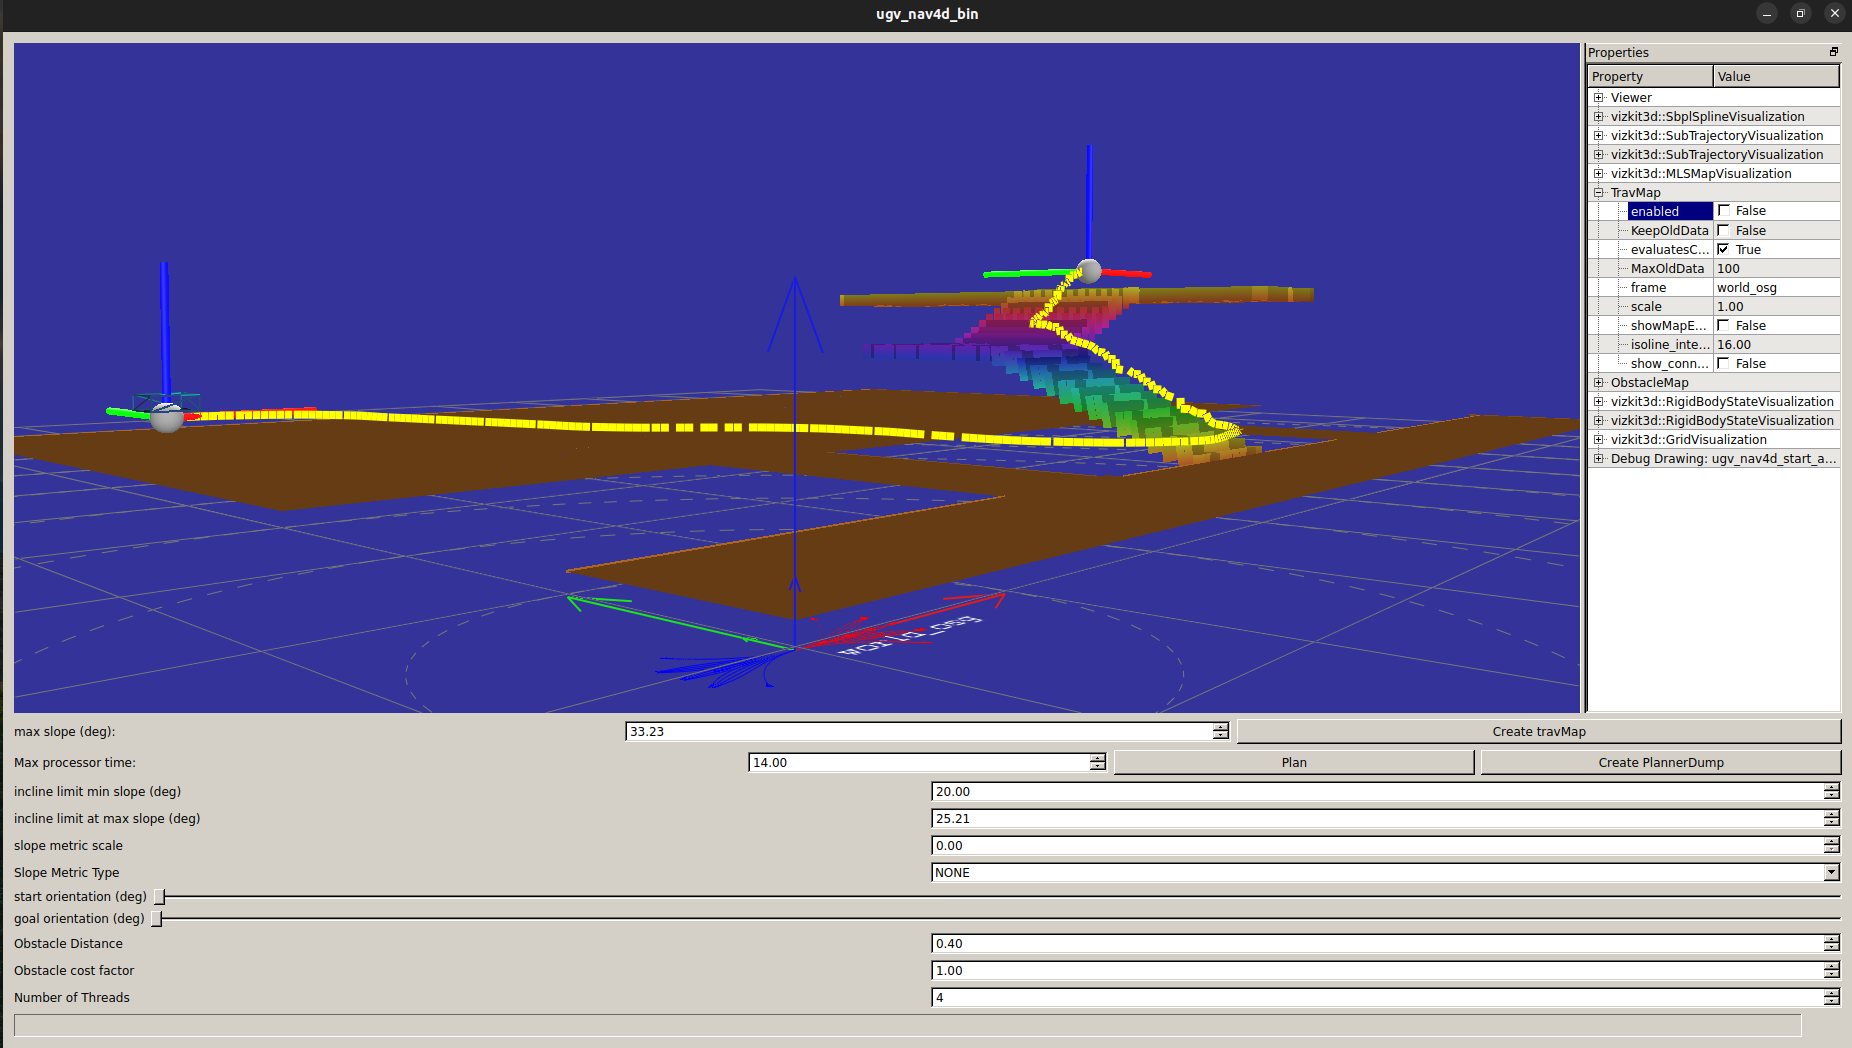
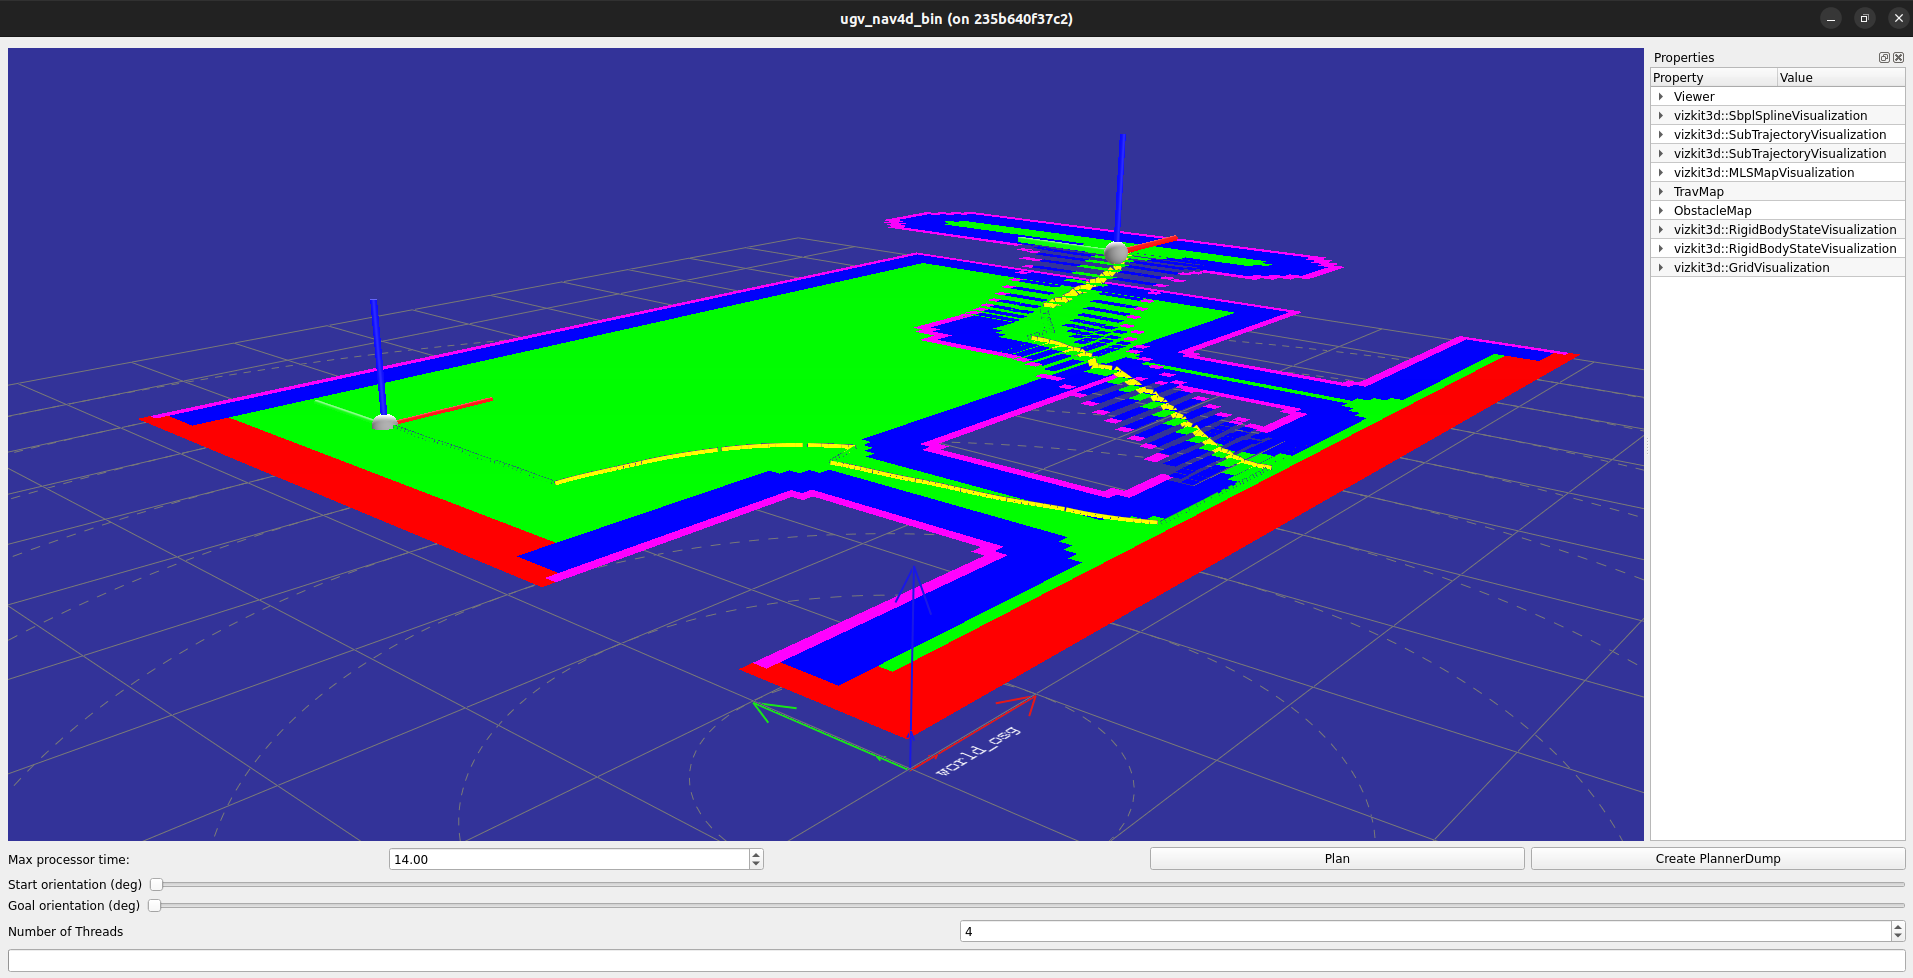
Update paper and enable add pimtivies in the debug gui

diff --git a/src/gui/PlannerGui.cpp b/src/gui/PlannerGui.cpp
@@ -292,8 +292,8 @@ void PlannerGui::setupPlanner(int argc, char** argv)
     splineConfig.numEndAngles = 21;
     splineConfig.destinationCircleRadius = 10;
     splineConfig.cellSkipFactor = 3.0;
-    splineConfig.generatePointTurnMotions = false;
-    splineConfig.generateLateralMotions = false;
+    splineConfig.generatePointTurnMotions = true;
+    splineConfig.generateLateralMotions = true;
     splineConfig.generateBackwardMotions = true;
     splineConfig.generateForwardMotions = true;
     splineConfig.splineOrder = 4;

diff --git a/paper/paper.md b/paper/paper.md
@@ -23,150 +23,49 @@ bibliography: paper.bib
 ---
 
 # Summary
-Navigation of autonomous mobile robots is a complex problem which comprises of multiple software components, each performing a specific task, which when combined form the navigation software architecture. Ugv_nav4d can be used to navigate complex indoor and outdoor environments. It provides a traversable, motion constraint compliant, and collision free trajectory. It is highly customizable and can be used for any type of terrestrial robot.
 
-To find a traversable trajectory, ugv_nav4d internally maintains a 3D Traversability Map (TraversabilityMap3d) of the environment. The TraversabilityMap3d [@slammaps] is generated based on a multi-layered surface map (MLS [@mlsmaps], [@slammaps]), which enables ugv_nav4d to plan trajectories in multi-surface environments. The trajectory is composed by careful selection and piecing together of motion primitives from a pool of primitives. The primitives are generated based on the specific mechnical features of the robot. As a result, the planned trajectory always fits well with the motion capabilites of the robot. 
-
-In short, ugv_nav4d
-
-- can plan continuous, smooth, and feasible paths in complex indoor and outdoor environments.
-- can plan in multi-surface environments, e.g. natural cave system, multi-storey buildings.
-- provides a complete trajectory for the planned path which is ready for execution.
-- provides a graphical user interface (GUI) for introspection and debugging.
+The ugv_nav4d is a global path planner designed for terrestrial robots to navigate complex indoor and outdoor environments. To achieve this, ugv_nav4d uses a traversability map (TraversabilityMap3d) based on a multi-layered surface map (MLSMap) [@mlsmaps], [@slammaps], enabling planning in multi-surface environments. The path is built by selecting motion primitives tailored to the robot's mechanical features, ensuring compatibility with its motion capabilities.
 
 ![Planned trajectory in a multi-storey environment.](figures/parking_deck.png){width="300pt"}
 
 # Statement of need
+Accurate ground surface representation is crucial for ground-based robots in complex terrains. The ROS Navigation Stack (nav2) [@ros2], which uses voxel maps for 3D navigation, often loses detail and accuracy, especially in multi-storey environments, due to its discrete voxelization and separate costmaps for each floor.
 
-The ROS navigation stack [@ros2] is undoubtedly the most used open-source robotics framework. This claim can be backed by its widespread usage in research and industry. Navigation2 (nav2) [@macenski2020nav2] is the newest navigation system which is based on the legacy of ROS Navigation. In this paper, we propose a new, fully open-source robot navigation library called ugv_nav4d. Ugv_nav4d presents significant improvements over nav2, particularly in environmental representation and navigation in complex, uneven terrains and multistorey environments. By utilizing Multi-Layered Surface Maps [@mlsmaps] and a 3D Traversability Map [@slammaps], ugv_nav4d offers a more detailed and accurate navigation solution for ground vehicles. These capabilities are essential for operations in challenging terrains and address critical needs within the robotics community. The ongoing development of a ROS2 wrapper for ugv_nav4d aims to facilitate its adoption and integration within the ROS2 ecosystem, providing substantial benefits to the community and enhancing the capabilities of ground vehicle navigation.
+We propose ugv_nav4d, a path planner that enhances environmental representation with Multi-Layered Surface Maps (MLS) [@mlsmaps] and a 3D Traversability Map [@slammaps]. Ugv_nav4d avoids the "stepping" effect of voxel maps by using a continuous grid and detailed vertical information, providing smoother and more accurate terrain modeling.
 
-### Environment Representation and Mapping Techniques
-Nav2 primarily supports 2D occupancy grid maps, where the environment is discretized into a grid of cells marked as occupied or free. This method is suitable for flat, two-dimensional environments but is inadequate for complex and uneven terrains. For 3D mapping, nav2 utilizes voxel maps, which discretize the environment along the x, y, and z axes. While voxel maps are effective for aerial and underwater navigation due to their capacity to represent non-ground obstacles, they introduce steps on sloped surfaces, which can hinder smooth ground vehicle navigation.
-
-In contrast, ugv_nav4d employs Multi-Layered Surface Maps (MLS), representing the environment with a grid in the x and y coordinates while avoiding discretization in the z axis. Each cell contains a list of blocks defined by start and stop heights, with the top of these blocks capable of having a slope value. This method ensures a smooth surface representation, making it highly suitable for navigating uneven ground. The MLS approach eliminates the stepping effect seen in voxel maps, providing a continuous and detailed representation of ground surfaces, including slopes and varying heights.
-
-### Multistorey Navigation Capabilities
-In multistorey environments, nav2 would require separate costmaps for each floor, which complicates the navigation process. In contrast, the planner in ugv_nav4d maintains a single 3D Traversability Map, enabling efficient long-distance planning in environments with distinct elevation levels, such as multistorey buildings or terrains with significant height variations. This approach simplifies navigation without the need for multiple costmaps.
-
-### Traversability Analysis
-Ugv_nav4d includes detailed ground surface information, such as slope and plane models, in each cell of the traversability map. This can be seen as an advanced alternative to the combination of 3D costmaps and gradient maps in nav2, providing higher accuracy and efficiency.
-
-### Suitability for Different Applications
-The voxel maps used by nav2 are more suitable for applications where non-ground obstacles are significant, such as in aerial or underwater navigation. Conversely, the MLS approach in ugv_nav4d, with its smooth surface representation and detailed ground information, is superior for ground vehicle navigation in uneven terrain. This additional accuracy is crucial for effectively handling complex surfaces.
-
-### Visualization Differences
-From a user perspective, the visualization of MLS and voxel maps differs significantly. Voxel maps create a blocky representation of the environment, where objects and surfaces are represented by stacked cubes. This can lead to a staircase effect on sloped surfaces, which may not accurately reflect the true nature of the terrain. This visualization is more suitable for scenarios where the focus is on the presence and absence of obstacles, such as in aerial or underwater navigation. On the other hand, MLS maps provide a smoother and more continuous representation of the environment. The lack of discretization in the z-axis allows for a more accurate depiction of slopes and uneven ground surfaces. This results in a more intuitive and realistic visualization for ground vehicle navigation, where the detailed surface information, such as slope and plane models, is critical for planning and decision-making. The smoother surface representation of MLS maps enhances the user’s ability to understand and interpret the terrain, leading to better navigation outcomes.
+Unlike nav2, ugv_nav4d simplifies planning with a single TraversabilityMap3D, which contains detailed ground surface data, offering a superior alternative to nav2’s 3D costmaps. For users, MLS maps provide a smoother, more realistic view of terrain compared to the blocky voxel maps, enhancing navigation and decision-making in complex environments.
  
 # Software Components 
-The core software components are 
+The core software components of the planner are 
 
 - EnvironmentXYZTheta
 - PathPlanner
 - PreComputedMotions
 
 ### EnvironmentXYZTheta 
-The core of ugv_nav4d is based on SBPL [@sbpl]. The environment in SBPL internally uses states and associated transition costs. ugv_nav4d uses the EnvironmentXYZTheta because this environment implements all interfaces needed by SBPL to enable ARA* based planning. A state in this environment consists of the position on the map (x,y,z) and the orientation of the robot (yaw). The EnvironmentXYZTheta uses TraversabilityGenerator3d [@travgen3d] to generate a TraversabilityMap3d from a MLSMap. The TraversabilityGenerator3d classifies the MLSMap patches into traversable, non-traversable, and unknown terrain. The nodes in TraversabilityMap3d contains meta data of the ground surface (e.g., slope of the patch, supporting plane, etc.). 
+The core of ugv_nav4d is based on SBPL (Search-Based Planning Library) [@sbpl]. The EnvironmentXYZTheta implements all interfaces needed by SBPL to enable ARA* based planning. The environment in SBPL is a state space which connects states with associated transition costs. A state is defined by the position (x,y,z) and orientation (yaw) of the robot. The EnvironmentXYZTheta uses a TraversabilityGenerator3d [@travgen3d] to generate a TraversabilityMap3d from a MLSMap, which classifies the MLSMap patches into traversable, non-traversable, and unknown terrain and stores meta data of the ground surface (e.g., slope of the patch, supporting plane, etc.). 
 
-![TraversabilityMap3d generated by ugv_nav4d.](figures/trav_map.png){width="200pt" height="300pt"}
-
-`Traversable [Green]`: The robot can stand (with its center) on this patch in at least one orientation without hitting an obstacle. 
-
-`Obstacle [Red]`: There robot will be in collision if it stands (with its center) on this patch. 
-
-`Frontier [Blue]`: Borders to the end of the map.  
-
-`Unknown [Purple]`: This is a virtual patch that serves as boundary for algorithms. This patch does not exist in the MLSMap. Patches also become unknown if there is not enough information in the MLSMap to be sure that a patch exists in this location.
-
-
-![The Moon Crater in the Space Hall at the RIC, DFKI [@roboticsElab]\label{fig:crater}.](figures/space_hall_crater.png){width="200pt" height="300pt"}
-
-The EnvironmentXYZTheta is given the MLSMap of the Space Hall Crater shown in Figure 2 and the resulting TraversabilityMap3d generated by the TraversabilityGenerator3d is shown in Figure 3.
-
-![The TraversabilityMap3d of the Moon Crater in \autoref{fig:crater}.](figures/trav_map_space_hall.png){width="200pt" height="300pt"}
+![The Moon Crater and its TraversabilityMap3d in the Space Hall at the RIC, DFKI [@roboticsElab]\label{fig:crater}.](figures/trav_map_and_space_hall.png){width="400" height="300pt"}
 
 ### PathPlanner
-The SBPL provided ARA* planner uses a heuristic during the exploration for successor states. The heuristic is the time it would take the robot to follow the shortest path in between two states on the TraversabilityMap3d. Robot and terrain specific information used in the planning phase is: 
-
-- the robot dimensions and orientations are parameters 
-- collision checks with obstacles
-- steepness of the terrain 
-- motion primitives 
-
-The planner generates a complete trajectory for the planned path and the trajectory can be executed by a trajectory follower [@trajectoryfollower].
+The search for the shortest path in ugv_nav4d is based on the SBPL-provided ARA* planner. It builds a state space of future robot states and uses a time heuristic to compute the shortest path on the TraversabilityMap3D. Robot and terrain-specific information, including robot dimensions and orientations, collision checks with obstacles, terrain steepness, and motion primitives are incorporated as additional costs in the search for the successive states. The planner generates a complete trajectory for the planned path, which can then be executed by a trajectory follower [@trajectoryfollower].
 
 ![The planned trajectory (yellow) using the robot [Hunter-SE](https://robotik.dfki-bremen.de/de/forschung/robotersysteme/hunterse) in the final demostration of the project [KIMMI-SF](https://robotik.dfki-bremen.de/de/forschung/projekte/kimmi-sf).](figures/motion_planning_hunter.png){width="200pt" height="300pt"}
 
 ### PreComputedMotions  
-Motion primitives are a set of pre-defined motions which are stored as spline trajectories. Each primitive is a feasible movement of the robot from a given starting pose (x,y,z,yaw). The planner uses primitives to find candidate successor states from the start state. It samples the spline and confirms if the path followed along the spline is traversable and collision free. 
-
-Upon motion generation, every motion is asigned a base cost.
-The basic cost is when the robot would follow that motion on a horizontal flat surface. Factors for steepness and other penalties might be factored later during planning on a case to case basis.
-
-Primitives are classified into four categories: 
-
-- Forward Motion Primitive 
-- Backward Motion Primitive 
-- Lateral Motion Primitive 
-- Point-Turn Motion Primitive
+Motion primitives are pre-defined movements stored as spline trajectories, representing feasible robot motions from a given pose (x, y, z, yaw). The planner uses these primitives to find successor states, ensuring paths are traversable and collision-free. Each motion has a base cost for flat surfaces, with additional penalties for factors like steepness. Primitives fall into four categories: Forward, Backward, Lateral, and Point-Turn. These primitives can be tailored for different robot types: Ackermann drive robots use forward and backward primitives, differential drive robots can use point-turn primitives, and omni-directional robots utilize all four types. Point-turn primitives are unique as they don't use splines, unlike the others generated by the SbplSplineMotionPrimitives library [@sbplsplineprimitives].
 
 ![A pool of forward motion primitives by the PreComputedMotions module.](figures/motion_primitives.png){width="200pt" height="300pt"}
 
-The user can adapt the planner for diverse types of ground mobile robots. A typical robot with an Ackermann drive will use forward and backward motion primitives. A differential drive robot can realize point-turn motions in addition to forward and backward motions. An omni-directional robot can realize all four motion types. 
-
-All four primitive motion types are considered as valid motions. It needs to be mentioned that the point-turn primitives are a special case because they do not use a spline. On the contrary, forward, backward, and lateral motion primitives are splines. The basic shapes of the motion primitives are generated by the SbplSplineMotionPrimitives library [@sbplsplineprimitives].  
-
-# Debugging and Unit Tests
+# Debugging
 
 ### PlannerGui
-A GUI is provided for introspection into ugv_nav4d for debugging and testing. Please see the planner parameter details in the ugv_nav4d repository. The PlannerGui is the main testing gui. It is designed to experiment with differen planner parameters on a static map. It can load point clouds from ply or serialized mls maps. A left click sets the start location, a right click sets the end location.
+A GUI for ugv_nav4d allows debugging and testing by experimenting with planner parameters on a static map. The PlannerGui can load point clouds from ply or serialized MLS maps, using left and right clicks to set start and end locations. Errors can be logged to a file and ugv_nav4d_replay can be used to analyze the state and execute planning in a controlled environment.
 
 ![GUI for debugging and testing of ugv_nav4d.](figures/debug_gui.png){width="200pt" height="300pt"}
 
-The MLSMap for the GUI can be a .PLY file or a PlannerDump. We provide PLY files for basic multi-surface test environments in the test_data folder of the ugv_nav4d repository. 
-
-![Visualization of a MLSMap generated from the test_area2.ply\label{fig:mlsmap}.](figures/test_environment/multi_surface_test_mls_map.png){width="200pt" height="300pt"}
-
-![Visualization of the TraversabilityMap3d generated from the MLSMap in \autoref{fig:mlsmap}\label{fig:travmap}.](figures/test_environment/multi_surface_trav_map.png){width="200pt" height="300pt"}
-
-![Visualization of the planned trajectory based on the TraversabilityMap3d shown in \autoref{fig:travmap}.](figures/test_environment/multi_surface_planned_trajectory.png){width="200pt" height="300pt"}
-
-In case of error the Planner dumps its state to a file (this can be enabled using the dumpOnError parameter). The state can be loaded and analyzed using the ugv_nav4d_replay binary. This binary loads the state and executes the planning in a controlled environment. This can be used to debug the planner.
-
-### Unit Tests
-The unit tests for the planner are developed using GTest [@googletest]. The following tests are implemented:
-
-- Different resolutions for motion primitives and TraversabilityMap3d 
-- Invalid goal pose (x,y,z,yaw)
-- Invalid start pose of robot (x,y,z,yaw)
-- Planning success
-
 # Field Tests
-ugv_nav4d has been used extensively in research projects for almost a decade. The planner has performed well in highly unstructured environments e.g. natural cave systems, outdoor rough terrains and in structured environments.
-
-### Projects
-Here we have listed some projects in which ugv_nav4d was used for autonomous navigation.
-
-- [Entern](https://robotik.dfki-bremen.de/de/forschung/projekte/entern)
-- [ANT](https://robotik.dfki-bremen.de/de/forschung/projekte/ant)
-- [VIPE](https://robotik.dfki-bremen.de/de/forschung/projekte/vipe)
-- [KIMMI-SF](https://robotik.dfki-bremen.de/de/forschung/projekte/kimmi-sf)
-- [HiSE](https://robotik.dfki-bremen.de/de/forschung/projekte/hise)
-- [PerSim](https://robotik.dfki-bremen.de/de/forschung/projekte/persim)
-- [CoRobX](https://robotik.dfki-bremen.de/de/forschung/projekte/corob-x)
-
-### Robots
-ugv_nav4d is a very versatile planner and can be used for any type of a terrestrial robot. Below we have listed some of the many robots which use ugv_nav4d for autonomous navigation.
-
-- [Artemis](https://robotik.dfki-bremen.de/de/forschung/robotersysteme/artemis)
-- [Coyote-III](https://robotik.dfki-bremen.de/de/forschung/robotersysteme/coyote-iii)
-- [Crex](https://robotik.dfki-bremen.de/de/forschung/robotersysteme/crex)
-- [Charlie](https://robotik.dfki-bremen.de/de/forschung/robotersysteme/charlie)
-- [Hunter-SE](https://robotik.dfki-bremen.de/de/forschung/robotersysteme/hunterse)
-- [SherpaTT](https://robotik.dfki-bremen.de/de/forschung/robotersysteme/sherpatt)
-- [Asguard-IV](https://robotik.dfki-bremen.de/de/forschung/robotersysteme/asguard-iv)
-
-# Limitations
-As explained earlier, ugv_nav4d maintains a Traversability Map based on the user-provided MLS. It is common practice to map only the static environment in the MLS. As a consequence, dynamic obstacles are not considered during the planning phase of ugv_nav4d. Therefore, ugv_nav4d is currently suitable for static environments. In principle, it is possible to generate an MLS and subsequently a Traversability Map for each point cloud sample. This would ensure that dynamic obstacles are visible in the Traversability Map and are considered in the planning phase. We are working on various approaches to make it capable of operating in dynamic environments.
+ugv_nav4d has been used extensively in research projects for almost a decade. It has been utilized for autonomous navigation in several projects, including [Entern](https://robotik.dfki-bremen.de/de/forschung/projekte/entern), [ANT](https://robotik.dfki-bremen.de/de/forschung/projekte/ant), [VIPE](https://robotik.dfki-bremen.de/de/forschung/projekte/vipe), [KIMMI-SF](https://robotik.dfki-bremen.de/de/forschung/projekte/kimmi-sf), [HiSE](https://robotik.dfki-bremen.de/de/forschung/projekte/hise), [PerSim](https://robotik.dfki-bremen.de/de/forschung/projekte/persim), and [CoRobX](https://robotik.dfki-bremen.de/de/forschung/projekte/corob-x). As a versatile planner, it has also been used for various terrestrial robots, such as [Artemis](https://robotik.dfki-bremen.de/de/forschung/robotersysteme/artemis), [Coyote-III](https://robotik.dfki-bremen.de/de/forschung/robotersysteme/coyote-iii), [Crex](https://robotik.dfki-bremen.de/de/forschung/robotersysteme/crex), [Charlie](https://robotik.dfki-bremen.de/de/forschung/robotersysteme/charlie), [Hunter-SE](https://robotik.dfki-bremen.de/de/forschung/robotersysteme/hunterse), [SherpaTT](https://robotik.dfki-bremen.de/de/forschung/robotersysteme/sherpatt), and [Asguard-IV](https://robotik.dfki-bremen.de/de/forschung/robotersysteme/asguard-iv).
 
 # Acknowledgements 
 The ugv_nav4d library was initiated and is currently developed at the Robotics Innovation Center of the German Research Center for Artificial Intelligence (DFKI) in Bremen, together with the Robotics Group of the University of Bremen. The development was started in the scope of the Entern project (50RA1406), which has been funded by the German Aerospace Center (DLR) with funds from the German Federal Ministry for Economic Affairs and Climate Action (BMWK). 
